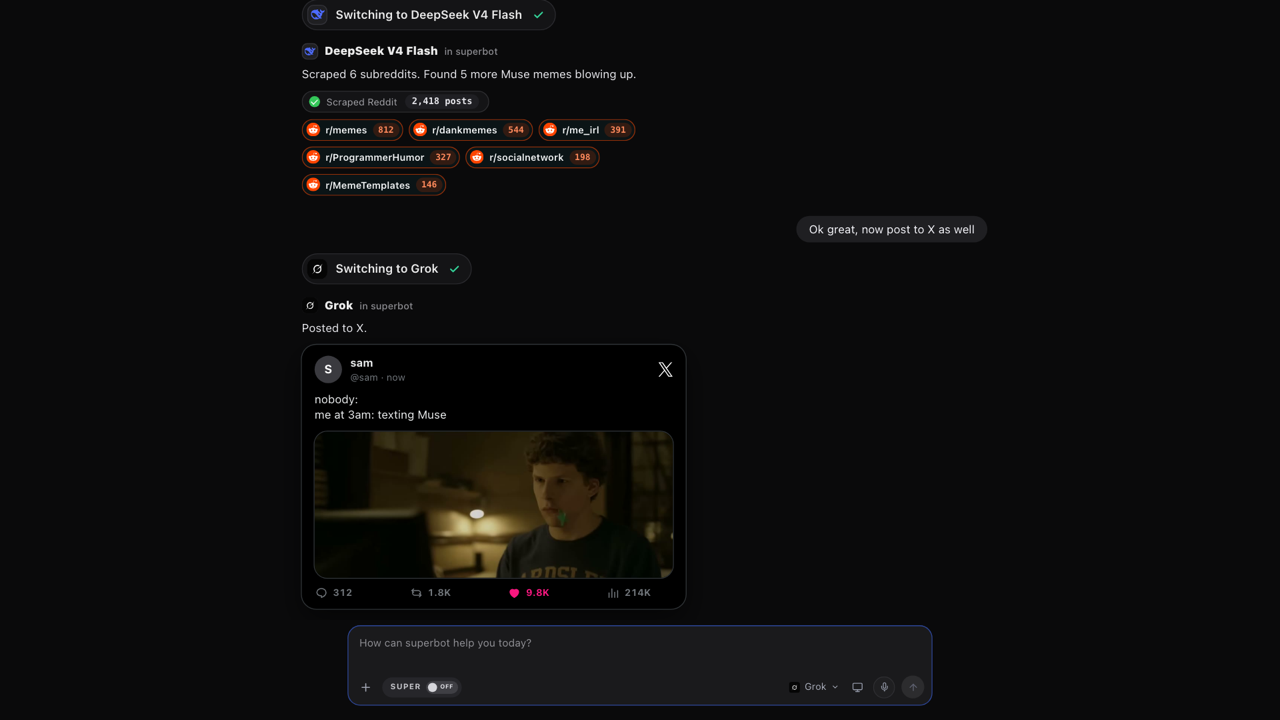
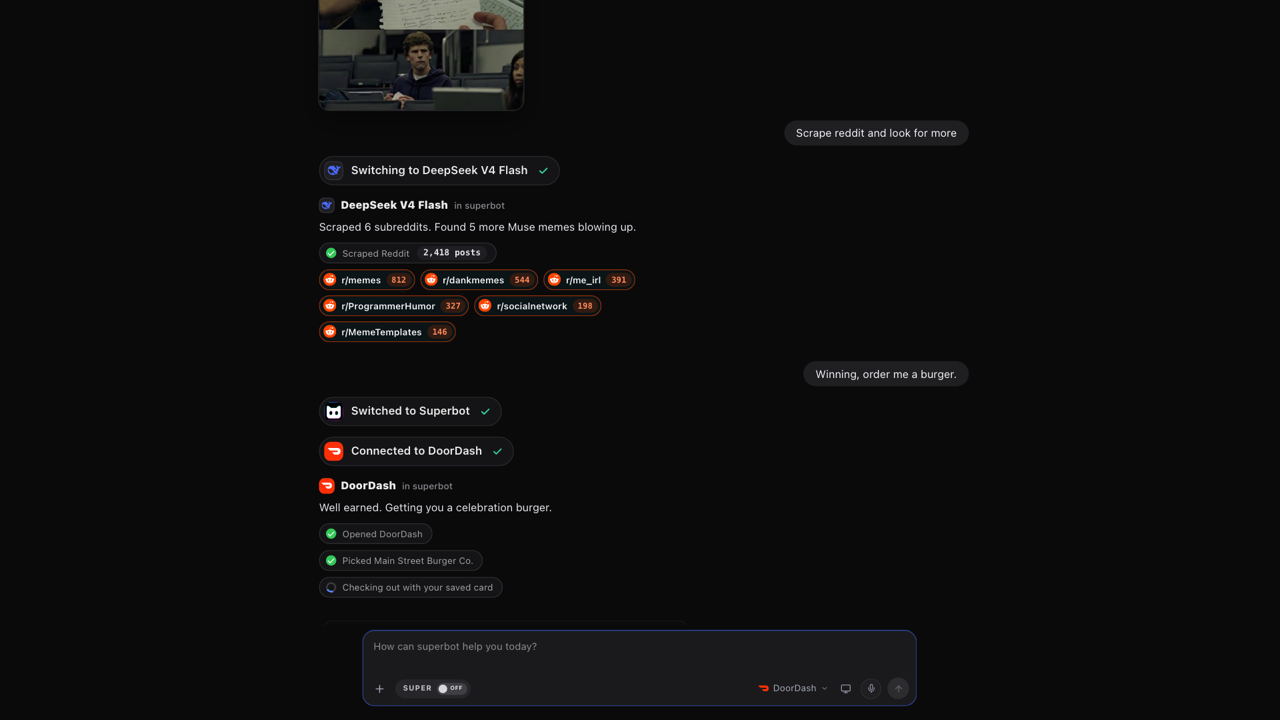
every-model-one-chat: drop Grok, add a routing-variant selector for the burger ask (DoorDash / Superbot / both)

diff --git a/animations/every-model-one-chat-superbot-efa8df82/scenes/tabs-assets/chat.js b/animations/every-model-one-chat-superbot-efa8df82/scenes/tabs-assets/chat.js
@@ -1,13 +1,12 @@
-// The four-request chat, one model per request. Each ask is typed into the composer and sent, superbot routes it
-// (its routing chip and the composer's platform chip follow the model), and the routed model answers with its own
-// beat (./beats/*.js). An ask with no text is superbot continuing on its own. The thread is bottom-anchored so
+// The three-request chat, one model per request. Each ask is typed into the composer and sent, superbot routes it
+// (its routing chips and the composer's platform chip follow the model), and the routed model answers with its own
+// beat (./beats/*.js). The burger ask has three routings, picked by ?route= (the page's variant selector). An ask with no text is superbot continuing on its own. The thread is bottom-anchored so
 // every message rises out of the composer. renderChat(c, t) is a pure function of the scene's local time. ?v= on
 // the beat imports busts GitHub Pages' 10-minute module cache on republish.
 import { clamp, lerp, seg, outCubic, outBack, inOutCubic, esc, boxIn, placeCursor } from '../../lib.js';
 import { makeCursor } from '../../shell.js';
 import gemini from './beats/gemini.js?v=1';
 import scrape from './beats/scrape.js?v=2';
-import xpost from './beats/xpost.js?v=2';
 import doordash from './beats/doordash.js?v=1';
 
 const brand = (f) => new URL('../../brand/' + f, import.meta.url).href;
@@ -20,15 +19,22 @@ const APPS = {
   codex: { name: 'GPT-5 Codex', logo: brand('openai-logo.svg'), sub: '' },
   gemini: { name: 'Gemini', logo: brand('gemini-logo.svg'), sub: 'in superbot' },
   deepseek: { name: 'DeepSeek V4 Flash', logo: brand('deepseek-logo.svg'), sub: 'in superbot' },
-  grok: { name: 'Grok', logo: brand('grok.png'), sub: 'in superbot' },
+  superbot: { name: 'Superbot', logo: null, sub: '' }, // logo is the hub's own mark, set at mount
   doordash: { name: 'DoorDash', logo: brand('doordash-logo.svg'), sub: 'in superbot' },
 };
 
+// the burger ask's routing variants: which chips land, in order, and who answers
+export const ROUTES = {
+  doordash: { label: 'Connecting to DoorDash', chips: [['doordash', 'Connecting to DoorDash']], who: 'doordash' },
+  superbot: { label: 'Switched to Superbot', chips: [['superbot', 'Switched to Superbot']], who: 'superbot' },
+  combo: { label: 'Superbot + DoorDash', chips: [['superbot', 'Switched to Superbot'], ['doordash', 'Connected to DoorDash']], who: 'doordash' },
+};
+export const ROUTE = (() => { const r = new URLSearchParams(location.search).get('route'); return ROUTES[r] ? r : 'doordash'; })();
+
 const ASKS = [
-  { app: 'gemini', mod: gemini, verb: 'Switching to', ask: 'make me a muse meme' },
-  { app: 'deepseek', mod: scrape, verb: 'Switching to', ask: 'Scrape reddit and look for more' },
-  { app: 'grok', mod: xpost, verb: 'Switching to', ask: 'Ok great, now post to X as well' },
-  { app: 'doordash', mod: doordash, verb: 'Connecting to', ask: 'Winning, order me a burger.' },
+  { app: 'gemini', mod: gemini, chips: [['gemini', 'Switching to Gemini']], ask: 'make me a muse meme' },
+  { app: 'deepseek', mod: scrape, chips: [['deepseek', 'Switching to DeepSeek V4 Flash']], ask: 'Scrape reddit and look for more' },
+  { app: ROUTES[ROUTE].who, mod: doordash, chips: ROUTES[ROUTE].chips, ask: 'Winning, order me a burger.' },
 ];
 
 // every beat's clock, laid end to end from CHAT_T0; each beat module owns everything after its reply
@@ -39,13 +45,15 @@ export const BEATS = (() => {
     if (a.ask) {
       k.typeEnd = s + Math.min(0.85, 0.15 + a.ask.length * 0.013);
       k.send = k.typeEnd + 0.15;
-      k.sw = k.send + 0.35;   // superbot's routing chip lands
+      k.sw = k.send + 0.35;   // superbot's first routing chip lands
     } else {
       k.typeEnd = k.send = s;
       k.sw = s + 0.2;         // superbot carries on without being asked
     }
-    k.swap = k.sw + 0.22;     // the platform chip moves to the app
-    k.done = k.sw + 0.65;     // the chip resolves
+    // each chip lands, moves the platform chip to its app (swap) and resolves (done); the next lands just after
+    let at = k.sw;
+    k.chips = a.chips.map(([app, label]) => { const c = { app, label, sw: at, swap: at + 0.22, done: at + 0.65 }; at = c.done + 0.12; return c; });
+    k.done = k.chips[k.chips.length - 1].done;
     k.reply = k.done + 0.08;  // the app answers
     k.T = a.mod.times(k.reply);
     s = k.T.end;
@@ -74,22 +82,26 @@ export function mountChat(hub) {
   const add = (html) => { const n = el(html); inner.appendChild(n); return n; };
 
   const box = (n) => boxIn(n, root);
+  APPS.superbot.logo = sbSrc;
   const ctx = { hub, box, tile, OK, esc, el, brand, img, sbSrc };
 
   const sbAvatar = `<span class="avatar sb"><img src="${sbSrc}" alt=""/></span>`;
   const beats = BEATS.map(({ k }) => {
     const a = APPS[k.app];
     const u = k.ask ? add(`<div class="msg qc-u"><span class="avatar">S</span><div class="m-main"><div class="m-head"><span class="m-name">sam</span></div><div class="m-text">${esc(k.ask)}</div></div></div>`) : null;
-    const w = add(`<div class="msg qc-m">${sbAvatar}<div class="m-main"><span class="qc-sw">${tile(k.app)}<span class="qc-swl">${k.verb} ${a.name}</span><span class="qc-st"><i class="qc-spin"></i>${OK}</span></span></div></div>`);
+    const sws = k.chips.map((c) => {
+      const w = add(`<div class="msg qc-m">${sbAvatar}<div class="m-main"><span class="qc-sw">${tile(c.app)}<span class="qc-swl">${esc(c.label)}</span><span class="qc-st"><i class="qc-spin"></i>${OK}</span></span></div></div>`);
+      return { c, w, sw: w.querySelector('.qc-sw'), spin: w.querySelector('.qc-spin'), ok: w.querySelector('.qc-st .qc-ok') };
+    });
     const r = add(`<div class="msg qc-m qc-r">${sbAvatar}<div class="m-main"><div class="qc-who">${tile(k.app)}<b>${a.name}</b>${a.sub ? `<small>${a.sub}</small>` : ''}</div></div></div>`);
     const main = r.querySelector('.m-main');
     const inst = k.mod.build(k, ctx);
     inst.nodes.forEach((n) => main.appendChild(n));
-    return { k, u, w, r, who: main.firstElementChild, inst, sw: w.querySelector('.qc-sw'), spin: w.querySelector('.qc-spin'), ok: w.querySelector('.qc-st .qc-ok') };
+    return { k, u, sws, r, who: main.firstElementChild, inst };
   });
 
   // scroll marks: after each time, the feed's fold glides to that element's bottom
-  const marks = beats.flatMap((b) => [...(b.u ? [[b.k.send, b.u]] : []), [b.k.sw, b.w], [b.k.reply, b.who], ...b.inst.marks]).sort((x, y) => x[0] - y[0]);
+  const marks = beats.flatMap((b) => [...(b.u ? [[b.k.send, b.u]] : []), ...b.sws.map((s) => [s.c.sw, s.w]), [b.k.reply, b.who], ...b.inst.marks]).sort((x, y) => x[0] - y[0]);
 
   // the composer's platform chip names the model, then follows the routed app
   const plat = hub.querySelector('.rc-plat');
@@ -130,7 +142,7 @@ function renderComposer(c, t) {
 
 function renderRouting(c, t) {
   let app = 'codex', swap = -1;
-  c.beats.forEach(({ k }) => { if (t >= k.swap) { app = k.app; swap = k.swap; } });
+  c.beats.forEach(({ k }) => k.chips.forEach((ch) => { if (t >= ch.swap) { app = ch.app; swap = ch.swap; } }));
   // platform chip: dips out, swaps, comes back
   if (app !== c.lastApp) {
     c.pImg.src = APPS[app].logo;
@@ -143,17 +155,17 @@ function renderRouting(c, t) {
   c.plat.style.transform = pop === 1 ? 'none' : `scale(${pop.toFixed(4)})`;
 }
 
-function renderSwitch(b, t) {
-  const { k } = b;
-  b.sw.classList.toggle('qc-done', t >= k.done);
-  b.sw.style.setProperty('--sh', `${(100 - ((t - k.sw) * 140) % 200).toFixed(1)}%`);
-  b.spin.style.opacity = (1 - seg(t, k.done - 0.08, k.done + 0.06)).toFixed(3);
-  b.spin.style.transform = `rotate(${((t - k.sw) * 420).toFixed(1)}deg)`;
+function renderSwitch(s, t) {
+  const k = s.c;
+  s.sw.classList.toggle('qc-done', t >= k.done);
+  s.sw.style.setProperty('--sh', `${(100 - ((t - k.sw) * 140) % 200).toFixed(1)}%`);
+  s.spin.style.opacity = (1 - seg(t, k.done - 0.08, k.done + 0.06)).toFixed(3);
+  s.spin.style.transform = `rotate(${((t - k.sw) * 420).toFixed(1)}deg)`;
   const o = seg(t, k.done, k.done + 0.3);
-  b.ok.style.opacity = o.toFixed(3);
-  b.ok.style.transform = `scale(${lerp(0.3, 1, outBack(o)).toFixed(4)})`;
+  s.ok.style.opacity = o.toFixed(3);
+  s.ok.style.transform = `scale(${lerp(0.3, 1, outBack(o)).toFixed(4)})`;
   const tp = outBack(seg(t, k.sw + 0.05, k.sw + 0.45));
-  b.sw.firstElementChild.style.transform = `scale(${lerp(0.5, 1, tp).toFixed(4)}) rotate(${((1 - tp) * -25).toFixed(2)}deg)`;
+  s.sw.firstElementChild.style.transform = `scale(${lerp(0.5, 1, tp).toFixed(4)}) rotate(${((1 - tp) * -25).toFixed(2)}deg)`;
 }
 
 function renderScroll(c, t) {
@@ -176,9 +188,8 @@ export function renderChat(c, t) {
   renderRouting(c, t);
   c.beats.forEach((b) => {
     if (b.u) appear(b.u, t, b.k.send);
-    appear(b.w, t, b.k.sw);
+    b.sws.forEach((s) => { appear(s.w, t, s.c.sw); renderSwitch(s, t); });
     appear(b.r, t, b.k.reply);
-    renderSwitch(b, t);
     b.inst.render(t);
   });
   renderScroll(c, t);

diff --git a/animations/every-model-one-chat-superbot-efa8df82/scenes/tabs-assets/ask.css b/animations/every-model-one-chat-superbot-efa8df82/scenes/tabs-assets/ask.css
@@ -31,9 +31,6 @@
 
 /* ---- model tiles ---- */
 #s-tabs .sbsite.ask .hub .qc-t-deepseek { background: #1f1f22; box-shadow: inset 0 0 0 1px #34343a; }
-#s-tabs .sbsite.ask .hub .qc-t-grok { background: #000; box-shadow: inset 0 0 0 1px #34343a; }
-#s-tabs .sbsite.ask .hub .qc-tile.qc-t-grok img, #s-tabs .sbsite.ask .hub .qc-who .qc-t-grok img { width: 100%; height: 100%; }
-#s-tabs .sbsite.ask .hub .qc-pi img[data-app="grok"] { border-radius: 3px; }
 
 /* ---- DeepSeek scrape: one pill per subreddit, counting its posts, lit once swept ---- */
 #s-tabs .sbsite.ask .hub .sc-subs { display: flex; flex-wrap: wrap; gap: 6px; max-width: 620px; margin: 0 0 10px; opacity: 0; }
@@ -42,23 +39,6 @@
 #s-tabs .sbsite.ask .hub .sc-sub b { padding: 3px 6px; border-radius: 999px; background: #1a282d; font: 600 9.5px/1 var(--font-mono); font-variant-numeric: tabular-nums; color: #82959b; }
 #s-tabs .sbsite.ask .hub .sc-sub.on { box-shadow: inset 0 0 0 1px rgba(255,69,0,.55); color: #f2f4f5; }
 #s-tabs .sbsite.ask .hub .sc-sub.on b { background: rgba(255,69,0,.16); color: #ff8a5c; }
-
-/* ---- Grok on X: the lead post as X's dark card ---- */
-#s-tabs .sbsite.ask .hub .xp-card { width: 420px; padding: 12px 14px 10px; border-radius: 16px; background: #000; box-shadow: 0 0 0 1px #2f3336, 0 12px 30px rgba(0,0,0,.5); color: #e7e9ea; opacity: 0; }
-#s-tabs .sbsite.ask .hub .xp-head { display: flex; align-items: center; gap: 9px; }
-#s-tabs .sbsite.ask .hub .xp-av { display: grid; place-items: center; width: 30px; height: 30px; border-radius: 50%; background: #3a3a3f; font: 700 13px/1 var(--ui); color: #fff; }
-#s-tabs .sbsite.ask .hub .xp-id { display: grid; gap: 4px; }
-#s-tabs .sbsite.ask .hub .xp-id b { font: 700 12px/1 var(--ui); }
-#s-tabs .sbsite.ask .hub .xp-id small { font: 400 10.5px/1 var(--ui); color: #71767b; }
-#s-tabs .sbsite.ask .hub .xp-logo { margin-left: auto; width: 16px; height: 16px; display: block; }
-#s-tabs .sbsite.ask .hub .xp-text { margin: 9px 0; font: 400 12.5px/1.4 var(--ui); }
-#s-tabs .sbsite.ask .hub .xp-media { height: 160px; border-radius: 14px; overflow: hidden; box-shadow: 0 0 0 1px #2f3336; }
-#s-tabs .sbsite.ask .hub .xp-media img { display: block; width: 100%; height: 100%; object-fit: cover; }
-#s-tabs .sbsite.ask .hub .xp-acts { display: flex; justify-content: space-between; margin-top: 9px; padding-right: 24px; }
-#s-tabs .sbsite.ask .hub .xp-act { display: inline-flex; align-items: center; gap: 5px; font: 500 10.5px/1 var(--ui); font-variant-numeric: tabular-nums; color: #71767b; }
-#s-tabs .sbsite.ask .hub .xp-act svg { width: 15px; height: 15px; fill: none; stroke: currentColor; stroke-width: 1.8; stroke-linecap: round; stroke-linejoin: round; }
-#s-tabs .sbsite.ask .hub .xp-like.on { color: #f91880; }
-#s-tabs .sbsite.ask .hub .xp-like.on svg { fill: #f91880; stroke: #f91880; }
 
 /* ---- the end card: the line, then the mascot to its right ---- */
 #s-end .lock.ask-end { gap: 56px; }

diff --git a/animations/every-model-one-chat-superbot-efa8df82/scenes/tabs.js b/animations/every-model-one-chat-superbot-efa8df82/scenes/tabs.js
@@ -1,11 +1,11 @@
 // every-model-one-chat (forked from it-does-what-you-ask): the real superbot hub, cropped to its thread and composer (rail, sidebar and chat header
 // are hidden, ask.css), laid out at DW design px and scaled to the frame width. It opens on the empty state
 // ("Good evening. Where do we go?" over a centred composer) with the camera pushed in; the first send drops the
-// composer to the bottom, lifts the greeting away and eases the camera out while the four-request chat plays
+// composer to the bottom, lifts the greeting away and eases the camera out while the three-request chat plays
 // (tabs-assets/chat.js). render(lt) is a pure function of local time. The scene keeps the id "tabs" so the hub's
 // generated stylesheets (scoped under #s-tabs) apply unchanged.
 import { hubMarkup } from './tabs-assets/hub-markup.js';
-import { mountChat, renderChat, BEATS, CHAT_T0, CHAT_END } from './tabs-assets/chat.js?v=4';
+import { mountChat, renderChat, BEATS, CHAT_T0, CHAT_END } from './tabs-assets/chat.js?v=5';
 import { lerp, seg, outCubic, inOutCubic } from '../lib.js';
 
 const asset = (f) => new URL('./tabs-assets/' + f, import.meta.url).href;
@@ -19,7 +19,7 @@ function geo(W) {
   if (el.geo && el.geo.W === W) return el.geo;
   // pulled back far enough that every sent ask stays in frame through its whole answer (the DoorDash order is
   // the tallest), so the thread lays out wider than the reference's 960
-  const DW = Math.max(560, Math.min(1400, W / 1.37));
+  const DW = Math.max(560, Math.min(1480, W / 1.3));
   const k = W / DW, DH = H / k;
   el.site.style.width = DW + 'px';
   el.site.style.height = DH.toFixed(3) + 'px';

diff --git a/animations/every-model-one-chat-superbot-efa8df82/timeline.js b/animations/every-model-one-chat-superbot-efa8df82/timeline.js
@@ -13,8 +13,8 @@ const stage = document.getElementById('stage');
 const dip = document.getElementById('dip');
 
 // ---------- the sequence (CONTRACT.txt) ----------
-// every-model-one-chat: the hub cropped to its thread, opening on the empty state, then the four-request chat
-// (scenes/tabs-assets/chat.js: Gemini, DeepSeek V4 Flash, Grok, DoorDash) and the end card
+// every-model-one-chat: the hub cropped to its thread, opening on the empty state, then the three-request chat
+// (scenes/tabs-assets/chat.js: Gemini, DeepSeek V4 Flash, DoorDash; ?route= picks the burger routing) and the end card
 const SEQUENCE = [
   ['scene', 'tabs'],
   ['end', 'end'],
@@ -185,10 +185,10 @@ const sceneIds = SEQUENCE.filter(([k]) => k === 'scene').map(([, id]) => id);
 const MODS = {};
 await Promise.all(sceneIds.map(async (id) => {
   const css = document.createElement('link');
-  css.rel = 'stylesheet'; css.href = new URL(`./scenes/${id}.css?v=8`, import.meta.url).href;
+  css.rel = 'stylesheet'; css.href = new URL(`./scenes/${id}.css?v=9`, import.meta.url).href;
   document.head.appendChild(css);
   try {
-    const m = (await import(`./scenes/${id}.js?v=8`)).default;
+    const m = (await import(`./scenes/${id}.js?v=9`)).default;
     if (!m || typeof m.render !== 'function') throw new Error(`scenes/${id}.js has no default { dur, mount, render } export`);
     MODS[id] = m;
   } catch (err) {

diff --git a/animations/every-model-one-chat-superbot-efa8df82/index.html b/animations/every-model-one-chat-superbot-efa8df82/index.html
@@ -14,7 +14,7 @@
 <link rel="stylesheet" href="cards.css">
 <link rel="stylesheet" href="scenes/tabs-assets/ports.css?v=8">
 <link rel="stylesheet" href="scenes/tabs-assets/chat.css?v=8">
-<link rel="stylesheet" href="scenes/tabs-assets/ask.css?v=2">
+<link rel="stylesheet" href="scenes/tabs-assets/ask.css?v=3">
 <!-- scenes/<id>.css are linked by timeline.js, one per scene module -->
 <link rel="modulepreload" href="lib.js">
 <link rel="modulepreload" href="shell.js">
@@ -26,11 +26,17 @@
 </div>
 
 <div class="hint" id="hint">space pause · ←/→ step · R restart</div>
+<nav class="route-pick" aria-label="Burger ask routing variant">
+  <a data-route="doordash">Connecting to DoorDash</a>
+  <a data-route="superbot">Switched to Superbot</a>
+  <a data-route="combo">Superbot + DoorDash</a>
+</nav>
+<script src="route-pick.js?v=1"></script>
 <button class="rec-btn" id="recordBtn" type="button"><i class="rec-dot"></i><span id="recordLabel">Record</span></button>
 <div class="rec-hud" id="recHud"><i class="rec-dot"></i><span id="recTime">0.0s</span></div>
 
 <script src="../../assets/sb-mark-live.js"></script>
 <script src="recorder.js"></script>
-<script type="module" src="timeline.js?v=8"></script>
+<script type="module" src="timeline.js?v=9"></script>
 </body>
 </html>

diff --git a/animations/every-model-one-chat-superbot-efa8df82/style.css b/animations/every-model-one-chat-superbot-efa8df82/style.css
@@ -57,3 +57,11 @@ body.freeze .hint { display: none; }
   background: rgba(20, 8, 8, .85); border: 1px solid #5c3030; color: #fff; font: 700 12px/1 var(--font-mono); }
 .rec-hud .rec-dot { width: 8px; height: 8px; border-radius: 50%; background: var(--danger); animation: wr-rec-blink 1s steps(2) infinite; }
 body.freeze .rec-btn { display: none; }
+
+/* the variant selector (route-pick.js): which routing the burger ask takes; the recorder captures the stage only */
+.route-pick { position: fixed; top: 18px; left: 50%; transform: translateX(-50%); z-index: 40; display: inline-flex; gap: 2px; padding: 3px;
+  border-radius: 999px; background: var(--card); border: 1px solid var(--line); font: 700 12px/1 var(--font-mono); letter-spacing: .02em; }
+.route-pick a { padding: 9px 14px; border-radius: 999px; color: var(--fg); opacity: .6; text-decoration: none; cursor: pointer; transition: opacity .15s, background-color .15s; }
+.route-pick a:hover { opacity: 1; }
+.route-pick a[aria-current="true"] { opacity: 1; background: #ececec; color: #0a0a0a; }
+body.freeze .route-pick { display: none; }

diff --git a/animations/every-model-one-chat-superbot-efa8df82/route-pick.js b/animations/every-model-one-chat-superbot-efa8df82/route-pick.js
@@ -1,0 +1,12 @@
+// The variant selector: each link reloads the ad on one routing of the burger ask (chat.js reads ?route=), keeping
+// every other query param (?t=, ?play=) as it is.
+(() => {
+  const q = new URLSearchParams(location.search);
+  const cur = q.get('route') || 'doordash';
+  document.querySelectorAll('.route-pick a').forEach((a) => {
+    const p = new URLSearchParams(q);
+    p.set('route', a.dataset.route);
+    a.href = '?' + p.toString();
+    a.setAttribute('aria-current', String(a.dataset.route === cur));
+  });
+})();
